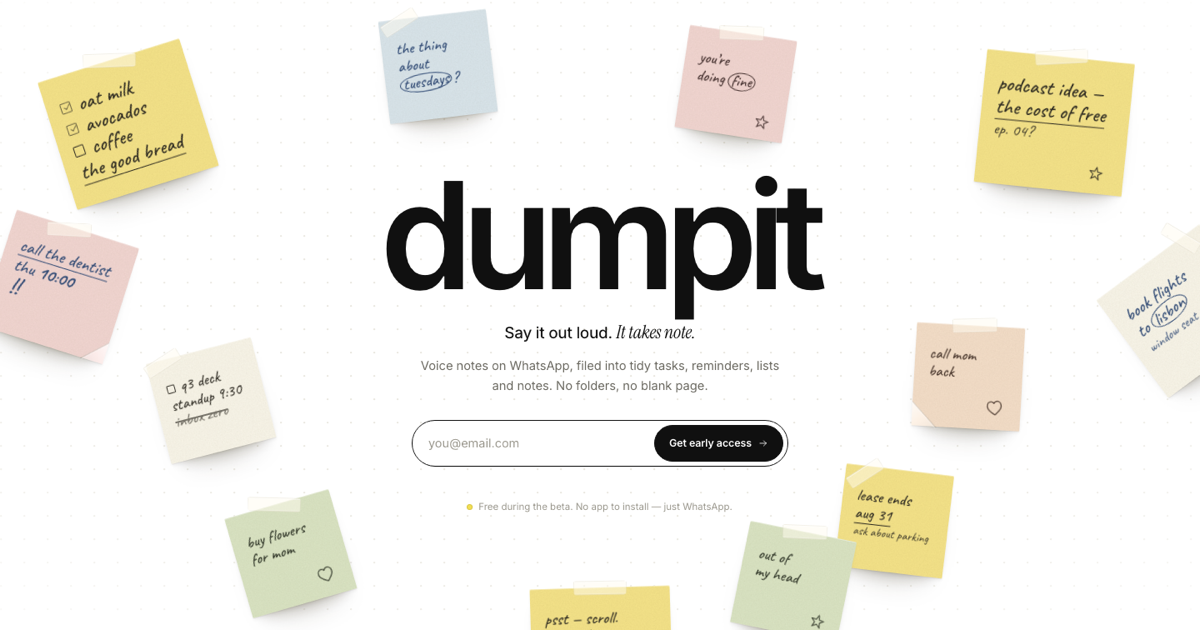
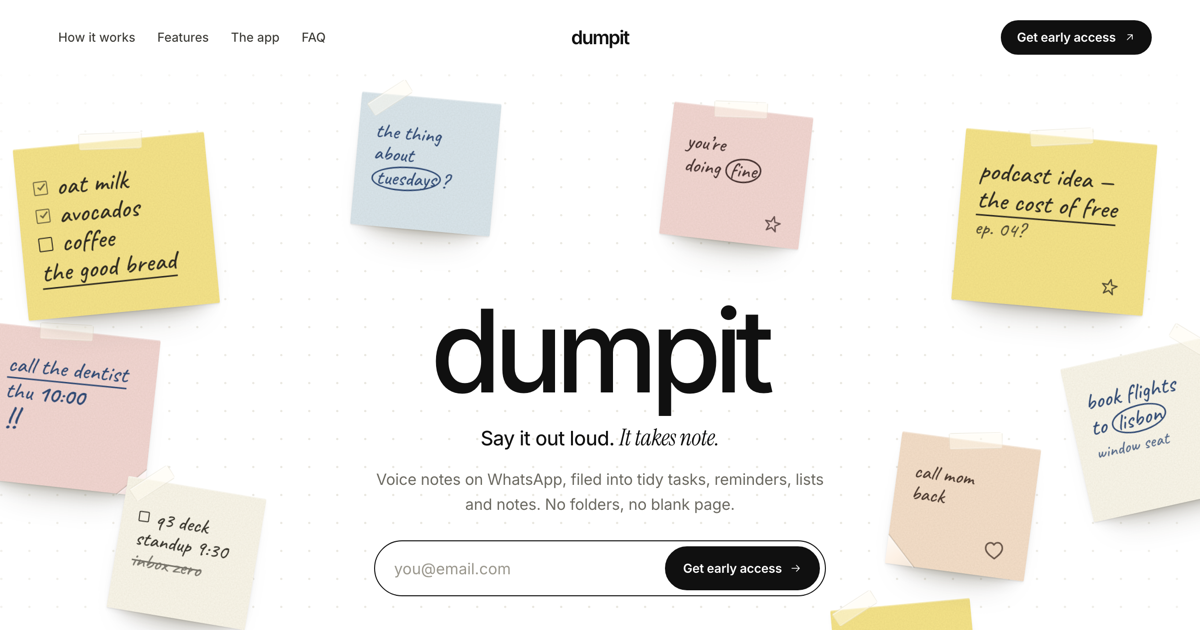
Use live hero screenshot as social preview image

diff --git a/public/index.html b/public/index.html
@@ -11,14 +11,16 @@
   <meta property="og:description" content="A voice-first notebook for people with too much on their mind. One voice note becomes notes, tasks and lists, already in order." />
   <meta property="og:type" content="website" />
   <meta property="og:site_name" content="dumpit" />
-  <meta property="og:image" content="assets/og.png" />
+  <meta property="og:url" content="https://dump1t.vercel.app/" />
+  <meta property="og:image" content="https://dump1t.vercel.app/assets/og.png?v=2" />
+  <meta property="og:image:type" content="image/png" />
   <meta property="og:image:width" content="1200" />
   <meta property="og:image:height" content="630" />
   <meta property="og:image:alt" content="dumpit — Say it out loud. It takes note." />
   <meta name="twitter:card" content="summary_large_image" />
   <meta name="twitter:title" content="dumpit — Say it out loud. It takes note." />
   <meta name="twitter:description" content="A voice-first notebook for people with too much on their mind. One voice note becomes notes, tasks and lists, already in order." />
-  <meta name="twitter:image" content="assets/og.png" />
+  <meta name="twitter:image" content="https://dump1t.vercel.app/assets/og.png?v=2" />
   <meta name="twitter:image:alt" content="dumpit — Say it out loud. It takes note." />
   <link rel="icon" href="assets/dumpit.svg" type="image/svg+xml" />
   <link rel="preconnect" href="https://fonts.googleapis.com" />
